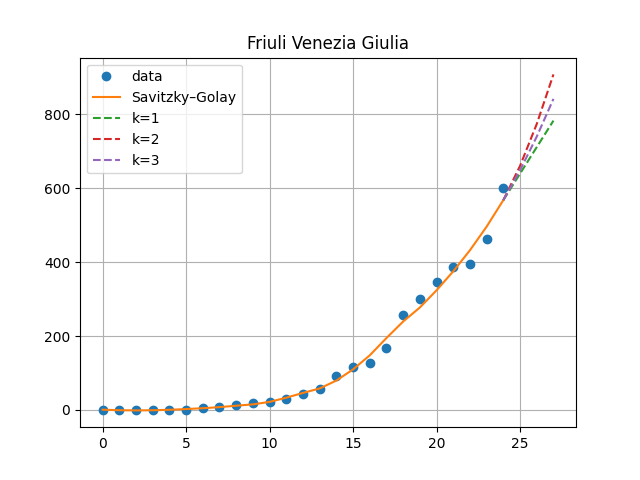
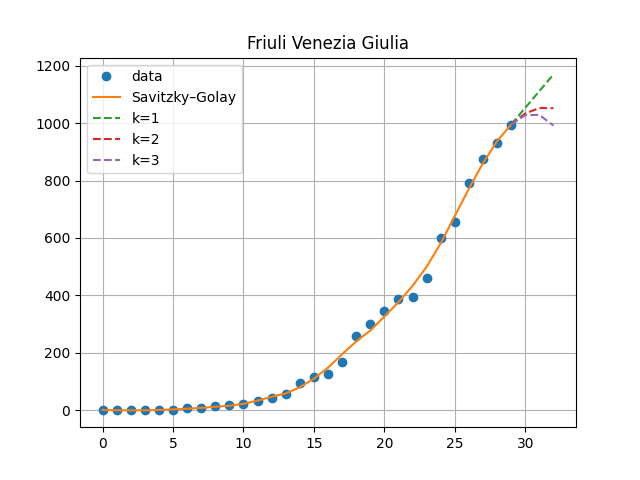
Tue Mar 24 20:27:28 CET 2020

diff --git a/2020/03/pycoro.html b/2020/03/pycoro.html
@@ -320,21 +320,21 @@
 <h3>Veneto</h3>
 <p>Previsione su 2 giorni (il primo valore è il giorno attuale) con <a href="https://docs.scipy.org/doc/scipy/reference/generated/scipy.interpolate.UnivariateSpline.html">https://docs.scipy.org/doc/scipy/reference/generated/scipy.interpolate.UnivariateSpline.html</a>:</p>
 
-<p>(dato del 16 marzo 2020)</p>
+<p>(dato del 23 marzo 2020)</p>
 
 <ul>
-  <li>k=1 [3488.4586156  3488.4586156  3833.10323264 4177.74784968 4522.39246673]</li>
-  <li>k=2 [3488.48382602 3488.48382602 3599.4092177  3476.56684754 3119.95671556]</li>
-  <li>k=3 [3488.49804554 3488.49804554 3840.2076378  4197.1652704  4557.67779792]</li>
+  <li>k=1 [5965.7057941  5965.7057941  6405.50670116 6845.30760822 7285.10851527]</li>
+  <li>k=2 [5965.63978126 5965.63978126 6370.41016268 6740.31096795 7075.34219707]</li>
+  <li>k=3 [5965.61047754 5965.61047754 6355.34720057 6678.63307654 6918.77284436]</li>
 </ul>
 
 <p><img src="\images\covid-veneto.png" /></p>
 
 <h3>Friuli</h3>
 <ul>
-  <li>k=1 [567.37167861 567.37167861 638.96818916 710.56469971 782.16121027]</li>
-  <li>k=2 [567.43739257 567.43739257 659.91695235 773.15360946 907.14736392]
- k=3 [567.44449333 567.44449333 648.19823327 739.01274804 840.95388609]</li>
+  <li>k=1 [ 995.34034413  995.34034413 1053.46755687 1111.5947696  1169.72198234]</li>
+  <li>k=2 [ 995.23966355  995.23966355 1033.61949453 1052.47618057 1051.80972167]</li>
+  <li>k=3 [ 995.22544223  995.22544223 1027.80489782 1028.63739093  991.24117572]</li>
 </ul>
 
 <p><img src="\images\covid-fvg.png" /></p>
